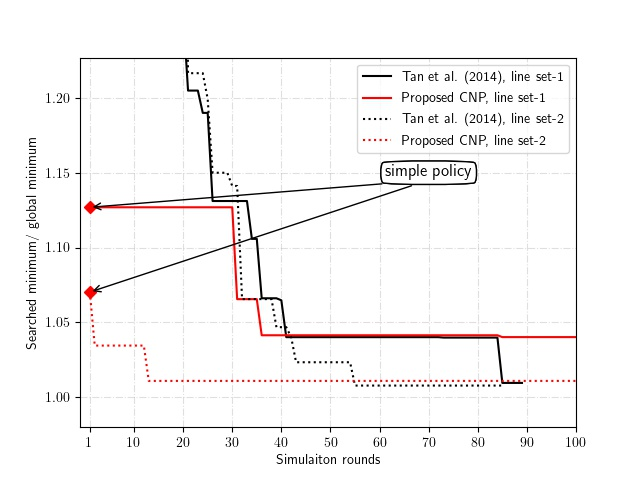
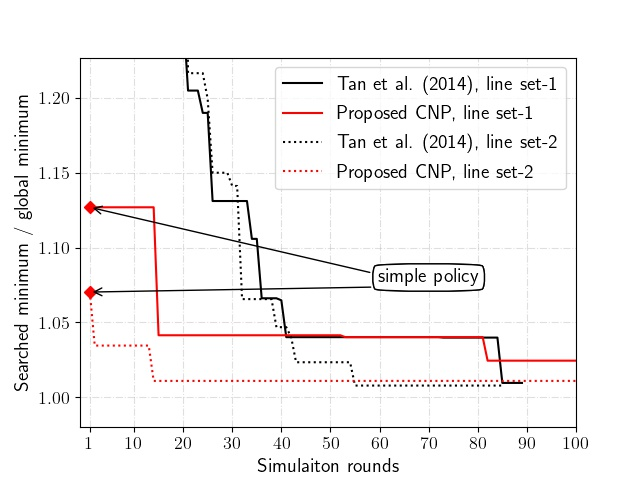
modify figures

diff --git a/plot_enumerate.py b/plot_enumerate.py
@@ -11,7 +11,7 @@ total_flow = 135
 arrival_type = "Gaussian"
 mean_service = 25
 signal_setting = None
-signal_setting = (120, 0.5, 3)
+# signal_setting = (120, 0.5, 3)
 
 ### figure setting
 line_styles_dict = {"FIFO": "solid", "LO-Out": "dashed", "FO-Bus": "dotted"}
@@ -22,16 +22,18 @@ setno_styles_dict = {0: "solid", 1: "dashed", 2: "dotted"}
 setno_styles_dict = {0: "solid", 1: "dotted", 2: "dashed"}
 
 if signal_setting is None:
-    ann_text_pos = {"FIFO": (60, 1.07), "LO-Out": (50, 1.20), "FO-Bus": (60, 1.15)}
+    ann_text_pos = {"FIFO": (60, 1.07), "LO-Out": (50, 1.20), "FO-Bus": (60, 1.13)}
 else:
-    ann_text_pos = {"FIFO": (60, 1.1), "LO-Out": (60, 1.25), "FO-Bus": (70, 1.15)}
+    ann_text_pos = {"FIFO": (60, 1.03), "LO-Out": (60, 1.25), "FO-Bus": (70, 1.08)}
 
 for queue_rule in ["FIFO", "LO-Out", "FO-Bus"]:
     ### generate figures for each queueing rule
     fig, ax = get_curve_plot(
         # x_label="simulaiton rounds", y_label="$\frac{delay}{global minima}$"
         x_label="Simulaiton rounds",
-        y_label="Searched minimum/ global minimum",
+        y_label="Searched minimum / global minimum",
+        x_font=14,
+        y_font=14,
     )
 
     y_max_lim = 0.0
@@ -62,6 +64,7 @@ for queue_rule in ["FIFO", "LO-Out", "FO-Bus"]:
         x_ticks.extend(list(np.arange(10, x_range, 10)))
         ax.set_xticks(x_ticks)
         ax.set_xlim([-1, 100])
+        ax.tick_params(axis="both", which="major", labelsize=13)
 
         tan_label = "Tan et al. (2014), line set-" + str(set_str_count)
         ax.plot(
@@ -89,7 +92,7 @@ for queue_rule in ["FIFO", "LO-Out", "FO-Bus"]:
             "simple policy",
             xy=(1, cnp_norm_history_delays[0]),
             xytext=ann_text_pos[queue_rule],
-            size=12,
+            size=14,
             va="center",
             ha="center",
             bbox=dict(boxstyle="round4", fc="w"),
@@ -103,7 +106,7 @@ for queue_rule in ["FIFO", "LO-Out", "FO-Bus"]:
         ax.plot(
             x_cnp[0], cnp_norm_history_delays[0], "rD",
         )
-        ax.legend()
+        ax.legend(fontsize=14)
         y_max_lim = max(cnp_norm_history_delays[0], y_max_lim)
         set_str_count += 1
 

diff --git a/plot_perturb.py b/plot_perturb.py
@@ -40,6 +40,8 @@ simple_delay = simple_df["simple_policy_delay"].values[0]
 fig, ax = get_curve_plot(
     x_label="Number of randomly-generated allocation plans",
     y_label="Average bus delay in desceding order",
+    x_font=13,
+    y_font=13,
 )
 
 ### set range
@@ -51,6 +53,7 @@ x_ticks.extend(list(np.arange(20, len(sorted_delays) + 1, 20)))
 # ax.set_ylim([1, 1.5])
 # # ax.set_xlim([1, x_range])
 ax.set_xticks(x_ticks)
+ax.tick_params(axis="both", which="major", labelsize=12)
 ax.set_xlim([1, 200])
 ax.plot(
     x,
@@ -67,7 +70,7 @@ ax.annotate(
     "simple policy",
     xy=(20, simple_delay),
     xytext=(100, simple_delay + 30),
-    size=12,
+    size=13,
     va="center",
     ha="center",
     bbox=dict(boxstyle="round4", fc="w"),

diff --git a/plot_settings.py b/plot_settings.py
@@ -3,11 +3,11 @@ import numpy as np
 import matplotlib.tri as tri
 
 
-def get_curve_plot(x_label, y_label):
+def get_curve_plot(x_label, y_label, x_font, y_font):
     plt.rc("text", usetex=True)
     fig, ax = plt.subplots()
-    ax.set_xlabel(x_label)
-    ax.set_ylabel(y_label)
+    ax.set_xlabel(x_label, fontsize=x_font)
+    ax.set_ylabel(y_label, fontsize=y_font)
     ax.grid(linestyle="-.", alpha=0.4)
 
     return fig, ax
